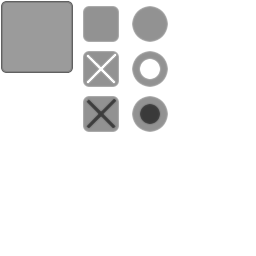
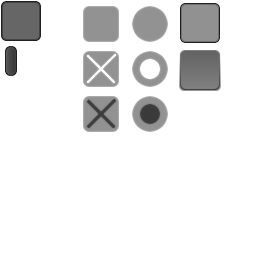
More work on default theme.

Changed region(s): [[0.0, 0.0, 0.3125, 0.3125], [0.6875, 0.0, 0.875, 0.375]]

diff --git a/samples/browser/src/SamplesGame.cpp b/samples/browser/src/SamplesGame.cpp
@@ -26,30 +26,19 @@ void SamplesGame::initialize()
     // Load camera script
     getScriptController()->loadScript("res/common/camera.lua");
 
-    // Construct a form for selecting which sample to run.
-    Theme* theme = Theme::create("res/common/default.theme");
-    Theme::Style* formStyle = theme->getStyle("basicContainer");
-    Theme::Style* buttonStyle = theme->getStyle("buttonStyle");
-    Theme::Style* titleStyle = theme->getStyle("title");
-
-    // Note: this calls addRef() on formStyle's Theme, which we created above.
-    _sampleSelectForm = Form::create("sampleSelect", formStyle, Layout::LAYOUT_VERTICAL);
-    theme->release();   // So we can release it once we're done creating forms with it.
-
-    _sampleSelectForm->setAutoHeight(true);
-    _sampleSelectForm->setWidth(200.0f);
+    // Create the selection form
+    _sampleSelectForm = Form::create("sampleSelect", NULL, Layout::LAYOUT_VERTICAL);
+    _sampleSelectForm->setWidth(200);
+    _sampleSelectForm->setAutoHeight(Control::AUTO_SIZE_STRETCH);
     _sampleSelectForm->setScroll(Container::SCROLL_VERTICAL);
-    _sampleSelectForm->setConsumeInputEvents(true);
-
     const size_t size = _samples->size();
     for (size_t i = 0; i < size; ++i)
     {
-        Label* categoryLabel = Label::create((*_categories)[i].c_str(), titleStyle);
-        categoryLabel->setAutoWidth(true);
-        categoryLabel->setTextAlignment(Font::ALIGN_BOTTOM_LEFT);
-        categoryLabel->setHeight(40);
+		Label* categoryLabel = Label::create((*_categories)[i].c_str());
+        categoryLabel->setAutoWidth(Control::AUTO_SIZE_FIT);
+        categoryLabel->setAutoHeight(Control::AUTO_SIZE_FIT);
+        categoryLabel->setFontSize(28);
         categoryLabel->setText((*_categories)[i].c_str());
-        categoryLabel->setConsumeInputEvents(false);
         _sampleSelectForm->addControl(categoryLabel);
         categoryLabel->release();
 
@@ -58,10 +47,10 @@ void SamplesGame::initialize()
         for (size_t j = 0; j < listSize; ++j)
         {
             SampleRecord sampleRecord = list[j];
-            Button* sampleButton = Button::create(sampleRecord.title.c_str(), buttonStyle);
+			Button* sampleButton = Button::create(sampleRecord.title.c_str());
             sampleButton->setText(sampleRecord.title.c_str());
-            sampleButton->setAutoWidth(true);
-            sampleButton->setHeight(60);      // Tall enough to touch easily on a BB10 device.
+            sampleButton->setAutoWidth(Control::AUTO_SIZE_STRETCH);
+            sampleButton->setAutoHeight(Control::AUTO_SIZE_FIT);
             sampleButton->addListener(this, Control::Listener::CLICK);
             _sampleSelectForm->addControl(sampleButton);
             sampleButton->release();
@@ -125,8 +114,13 @@ void SamplesGame::render(float elapsedTime)
         return;
     }
     // Clear the color and depth buffers
-    clear(CLEAR_COLOR_DEPTH, Vector4::zero(), 1.0f, 0);
+    clear(CLEAR_COLOR_DEPTH, Vector4(0.46f, 0.46f, 0.46f, 1.0f), 1.0f, 0);
     _sampleSelectForm->draw();
+
+    static Font* __font = Font::create("res/common/arial.gpb");
+    __font->start();
+    __font->drawText("Draw Triangle", 220, 20, Vector4::one());
+    __font->finish();
 }
 
 void SamplesGame::touchEvent(Touch::TouchEvent evt, int x, int y, unsigned int contactIndex)

diff --git a/gameplay/src/Properties.cpp b/gameplay/src/Properties.cpp
@@ -84,7 +84,7 @@ Properties* Properties::create(const char* url)
     std::auto_ptr<Stream> stream(FileSystem::open(fileString.c_str()));
     if (stream.get() == NULL)
     {
-        GP_ERROR("Failed to open file '%s'.", fileString.c_str());
+        GP_WARN("Failed to open file '%s'.", fileString.c_str());
         return NULL;
     }
 
@@ -961,7 +961,7 @@ bool Properties::getColor(const char* name, Vector4* out) const
             valueString[0] != '#')
         {
             // Not a color string.
-            GP_ERROR("Error attempting to parse property '%s' as an RGBA color (not specified as a color string).", name);
+            GP_WARN("Error attempting to parse property '%s' as an RGBA color (not specified as a color string).", name);
             out->set(0.0f, 0.0f, 0.0f, 0.0f);
             return false;
         }
@@ -970,7 +970,7 @@ bool Properties::getColor(const char* name, Vector4* out) const
         unsigned int color;
         if (sscanf(valueString+1, "%x", &color) != 1)
         {
-            GP_ERROR("Error attempting to parse property '%s' as an RGBA color.", name);
+            GP_WARN("Error attempting to parse property '%s' as an RGBA color.", name);
             out->set(0.0f, 0.0f, 0.0f, 0.0f);
             return false;
         }

diff --git a/gameplay/src/Form.cpp b/gameplay/src/Form.cpp
@@ -58,15 +58,6 @@ Form::~Form()
     }
 }
 
-Form* Form::create(const char* id, Theme::Style* style, Layout::Type layoutType)
-{
-    Form* form = new Form();
-    form->_id = id ? id : "";
-    form->_layout = createLayout(layoutType);
-    form->initialize("Form", style, NULL);
-    return form;
-}
-
 Form* Form::create(const char* url)
 {
     Form* form = new Form();
@@ -117,6 +108,15 @@ Form* Form::create(const char* url)
     SAFE_RELEASE(theme);
 
     return form;
+}
+
+Form* Form::create(const char* id, Theme::Style* style, Layout::Type layoutType)
+{
+	Form* form = new Form();
+	form->_id = id ? id : "";
+	form->_layout = createLayout(layoutType);
+	form->initialize("Form", style, NULL);
+	return form;
 }
 
 void Form::initialize(const char* typeName, Theme::Style* style, Properties* properties)

diff --git a/samples/browser/src/FormsSample.cpp b/samples/browser/src/FormsSample.cpp
@@ -95,7 +95,7 @@ void FormsSample::initialize()
     form5Button->addListener(this, Control::Listener::CLICK);
     for (unsigned int i = 0; i < _formFiles.size(); i++)
     {
-        Form* form = Form::create(_formFiles[i]);
+		Form* form = Form::create(_formFiles[i]);
         form->setEnabled(false);
         _forms.push_back(form);
     }
@@ -155,7 +155,7 @@ void FormsSample::formChanged()
 
 void FormsSample::createSampleForm(Theme* theme)
 {
-    Form* form = Form::create("testForm", theme->getStyle("basicContainer"));
+    Form* form = Form::create("testForm", theme->getStyle("basicContainer"), Layout::LAYOUT_ABSOLUTE);
     form->setSize(600, 600);
 
     Label* label = Label::create("testLabel", theme->getStyle("iconNoBorder"));

diff --git a/samples/browser/src/InputSample.cpp b/samples/browser/src/InputSample.cpp
@@ -58,7 +58,7 @@ void InputSample::initialize()
     _formNode = Node::create("Form");
     _formNodeParent->addChild(_formNode);
     Theme* theme = _inputSampleControls->getTheme();
-    Form* form = Form::create("testForm", theme->getStyle("basicContainer"));
+    Form* form = Form::create("testForm", theme->getStyle("basicContainer"), Layout::LAYOUT_ABSOLUTE);
     form->setSize(225, 100);
     Label* label = Label::create("sensorLabel", theme->getStyle("iconNoBorder"));
     label->setPosition(25, 15);

diff --git a/samples/browser/src/LightSample.cpp b/samples/browser/src/LightSample.cpp
@@ -96,7 +96,7 @@ void LightSample::initialize()
 	_model->setMaterial(_lighting);
 
     // Create and initialize ui form
-	_form = Form::create("res/common/light.form");
+    _form = Form::create("res/common/light.form");
     _properties = static_cast<Container*>(_form->getControl("lightProperties"));
 	_redSlider = static_cast<Slider*>(_form->getControl("redSlider"));
 	_redSlider->addListener(this, Control::Listener::VALUE_CHANGED);

diff --git a/gameplay/src/Form.h b/gameplay/src/Form.h
@@ -79,8 +79,8 @@ public:
 	 * form will inherit the theme that contains the form's style.
      *
      * @param id The Form's ID.
-     * @param style The Form's custom style (optional).
-     * @param layoutType The form's layout type.
+     * @param style The Form's custom style (optional - may be NULL).
+	 * @param layoutType The form's layout type (optional).
      *
      * @return The new Form.
      * @script{create}

diff --git a/gameplay/src/Theme.cpp b/gameplay/src/Theme.cpp
@@ -262,7 +262,9 @@ Theme* Theme::create(const char* url)
 
             // At least the OVERLAY_NORMAL is required.
             if (!normal)
-                GP_ERROR("All themes require the normal state overlay to be defined.");
+            {
+                normal = Theme::Style::Overlay::create();
+            }
 
             space->rewind();
             innerSpace = space->getNextNamespace();
